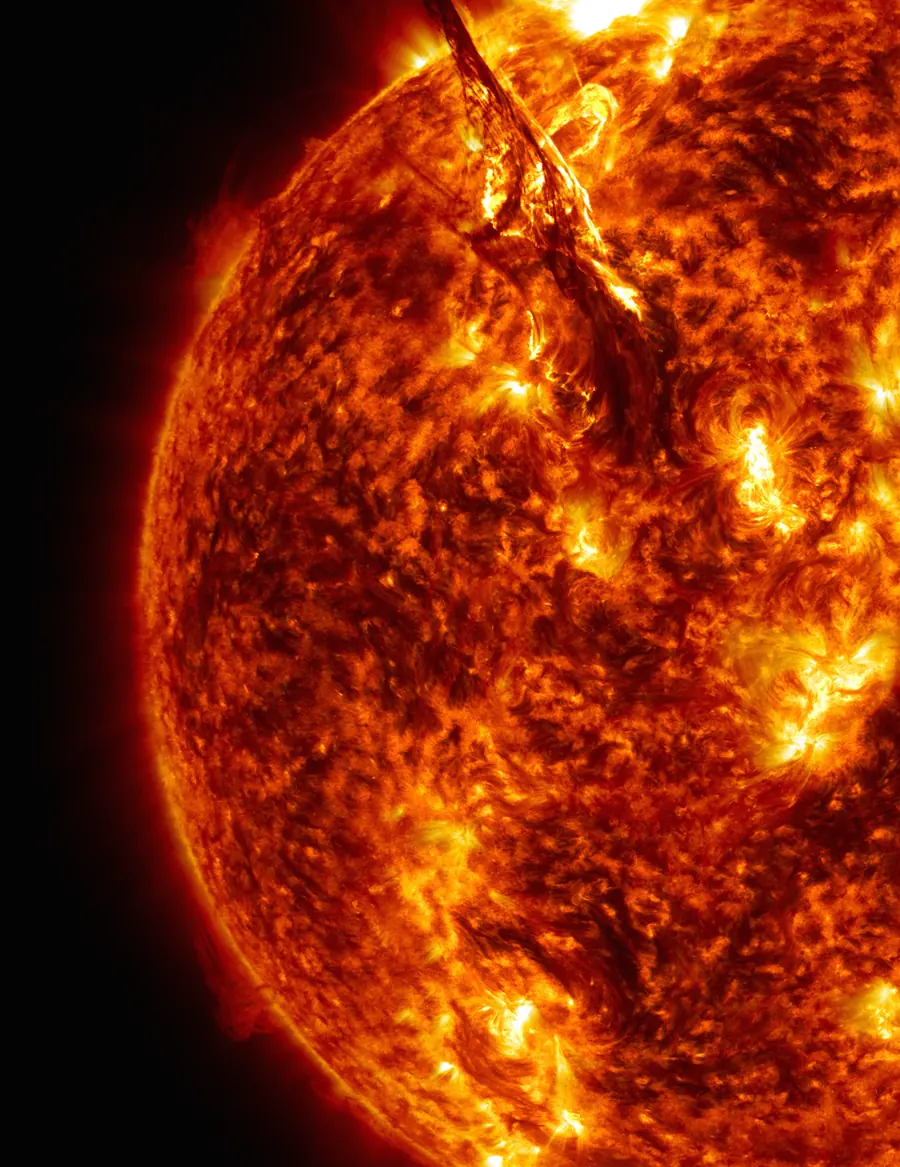
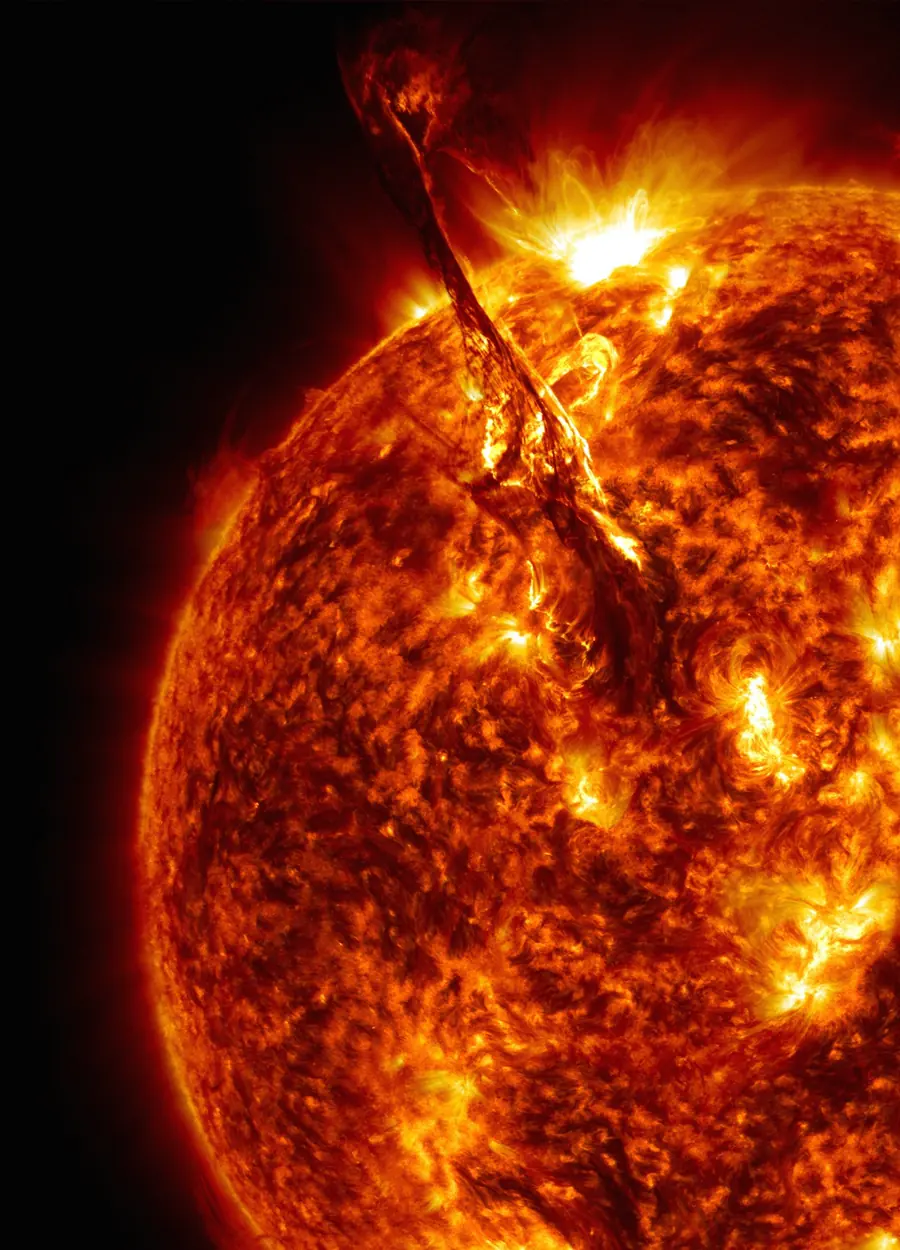
fix(home): let the eruption show through the page glow
The corner-centred elliptical mask faded the top of the sun still to
nothing, which is exactly where the 2012 prominence rises. Size the mask
to the image box instead and only soften the two edges that cut the
frame (left 30%, top 14%), raise the glow to 0.65, and cap the box by
viewport height so the ejection tip is on screen at 1080p. The still is
re-cropped taller (900 x 1250) to keep the whole prominence.

Refs #588.

Claude-Session: https://claude.ai/code/session_01JNyrGz9aLwgd4hX1Nyh7ov

diff --git a/src/styles/globals.css b/src/styles/globals.css
@@ -236,7 +236,9 @@
   position: relative;
 }
 .su-page-glow-layer {
-  --su-page-glow-size: min(60vw, 900px);
+  --su-page-glow-size: min(60vw, 900px, 62vh);
+  /* height / width of the still */
+  --su-page-glow-ratio: 1.389;
   position: fixed;
   inset: 0;
   z-index: 0;
@@ -257,24 +259,34 @@
   );
 }
 /* The still is portrait (the 2012 "Magnificent Eruption" frame turned so the
- * prominence climbs out of the corner), so the mask is an ellipse 1.3× taller
- * than wide: it matches the image box and its black sky never lands as a
- * rectangle on the canvas. */
+ * prominence climbs out of the corner). The mask is sized to the image box,
+ * not the viewport, and only softens the two edges that cut the frame: the
+ * left (where the disc leaves the crop) and the top (where the ejection
+ * leaves it). Everything else stays at full strength so the limb and the
+ * ejection read; the frame's own black sky contributes nothing under screen
+ * blending, so no rectangle lands on the canvas. The size is also capped by
+ * viewport height so the ejection tip is on screen at 1080p. */
 .su-page-glow-layer::after {
+  --su-page-glow-box: var(--su-page-glow-size)
+    calc(var(--su-page-glow-size) * var(--su-page-glow-ratio));
   background: var(--su-page-glow-image) no-repeat right bottom /
-    var(--su-page-glow-size) auto;
-  opacity: 0.55;
+    var(--su-page-glow-box);
+  opacity: 0.65;
   mix-blend-mode: screen;
-  -webkit-mask-image: radial-gradient(
-    ellipse var(--su-page-glow-size) calc(var(--su-page-glow-size) * 1.3) at 100% 100%,
-    rgb(0 0 0) 30%,
-    rgb(0 0 0 / 0) 100%
-  );
-  mask-image: radial-gradient(
-    ellipse var(--su-page-glow-size) calc(var(--su-page-glow-size) * 1.3) at 100% 100%,
-    rgb(0 0 0) 30%,
-    rgb(0 0 0 / 0) 100%
-  );
+  -webkit-mask-image:
+    linear-gradient(to right, rgb(0 0 0 / 0), rgb(0 0 0) 30%),
+    linear-gradient(to bottom, rgb(0 0 0 / 0), rgb(0 0 0) 14%);
+  -webkit-mask-size: var(--su-page-glow-box);
+  -webkit-mask-position: right bottom;
+  -webkit-mask-repeat: no-repeat;
+  -webkit-mask-composite: source-in;
+  mask-image:
+    linear-gradient(to right, rgb(0 0 0 / 0), rgb(0 0 0) 30%),
+    linear-gradient(to bottom, rgb(0 0 0 / 0), rgb(0 0 0) 14%);
+  mask-size: var(--su-page-glow-box);
+  mask-position: right bottom;
+  mask-repeat: no-repeat;
+  mask-composite: intersect;
 }
 /* Screen blending needs a dark backdrop: the Light palette keeps its canvas
  * and takes the image straight, quieter. */

diff --git a/docs/designs/design-system/README.md b/docs/designs/design-system/README.md
@@ -139,7 +139,7 @@ One background technique per page. `su-page-glow` (globals.css, DS-15) is that t
 
 The canvas is `color-mix(in srgb, var(--su-canvas) 55%, var(--su-input))` — derived from the palette, so no new hex — and the Light palette keeps plain `var(--su-canvas)` with the image blended normally instead of screened. The layer is `position: fixed` rather than `background-attachment: fixed`, which is broken on iOS Safari. Home is the first page on it; carry it into another area by repeating the three classes and pointing `--su-page-glow-image` at that area's still.
 
-Home's still is NASA/SDO's 31 August 2012 “Magnificent Eruption” frame, turned so the prominence climbs out of the corner (public domain, `public/home/sun-limb.webp`, 900 × 1167); the credit line lives in the Dashboard help section.
+Home's still is NASA/SDO's 31 August 2012 “Magnificent Eruption” frame, turned so the prominence climbs out of the corner (public domain, `public/home/sun-limb.webp`, 900 × 1250; `--su-page-glow-ratio` must match the still's height/width); the credit line lives in the Dashboard help section.
 
 ## Migration recipe
 
